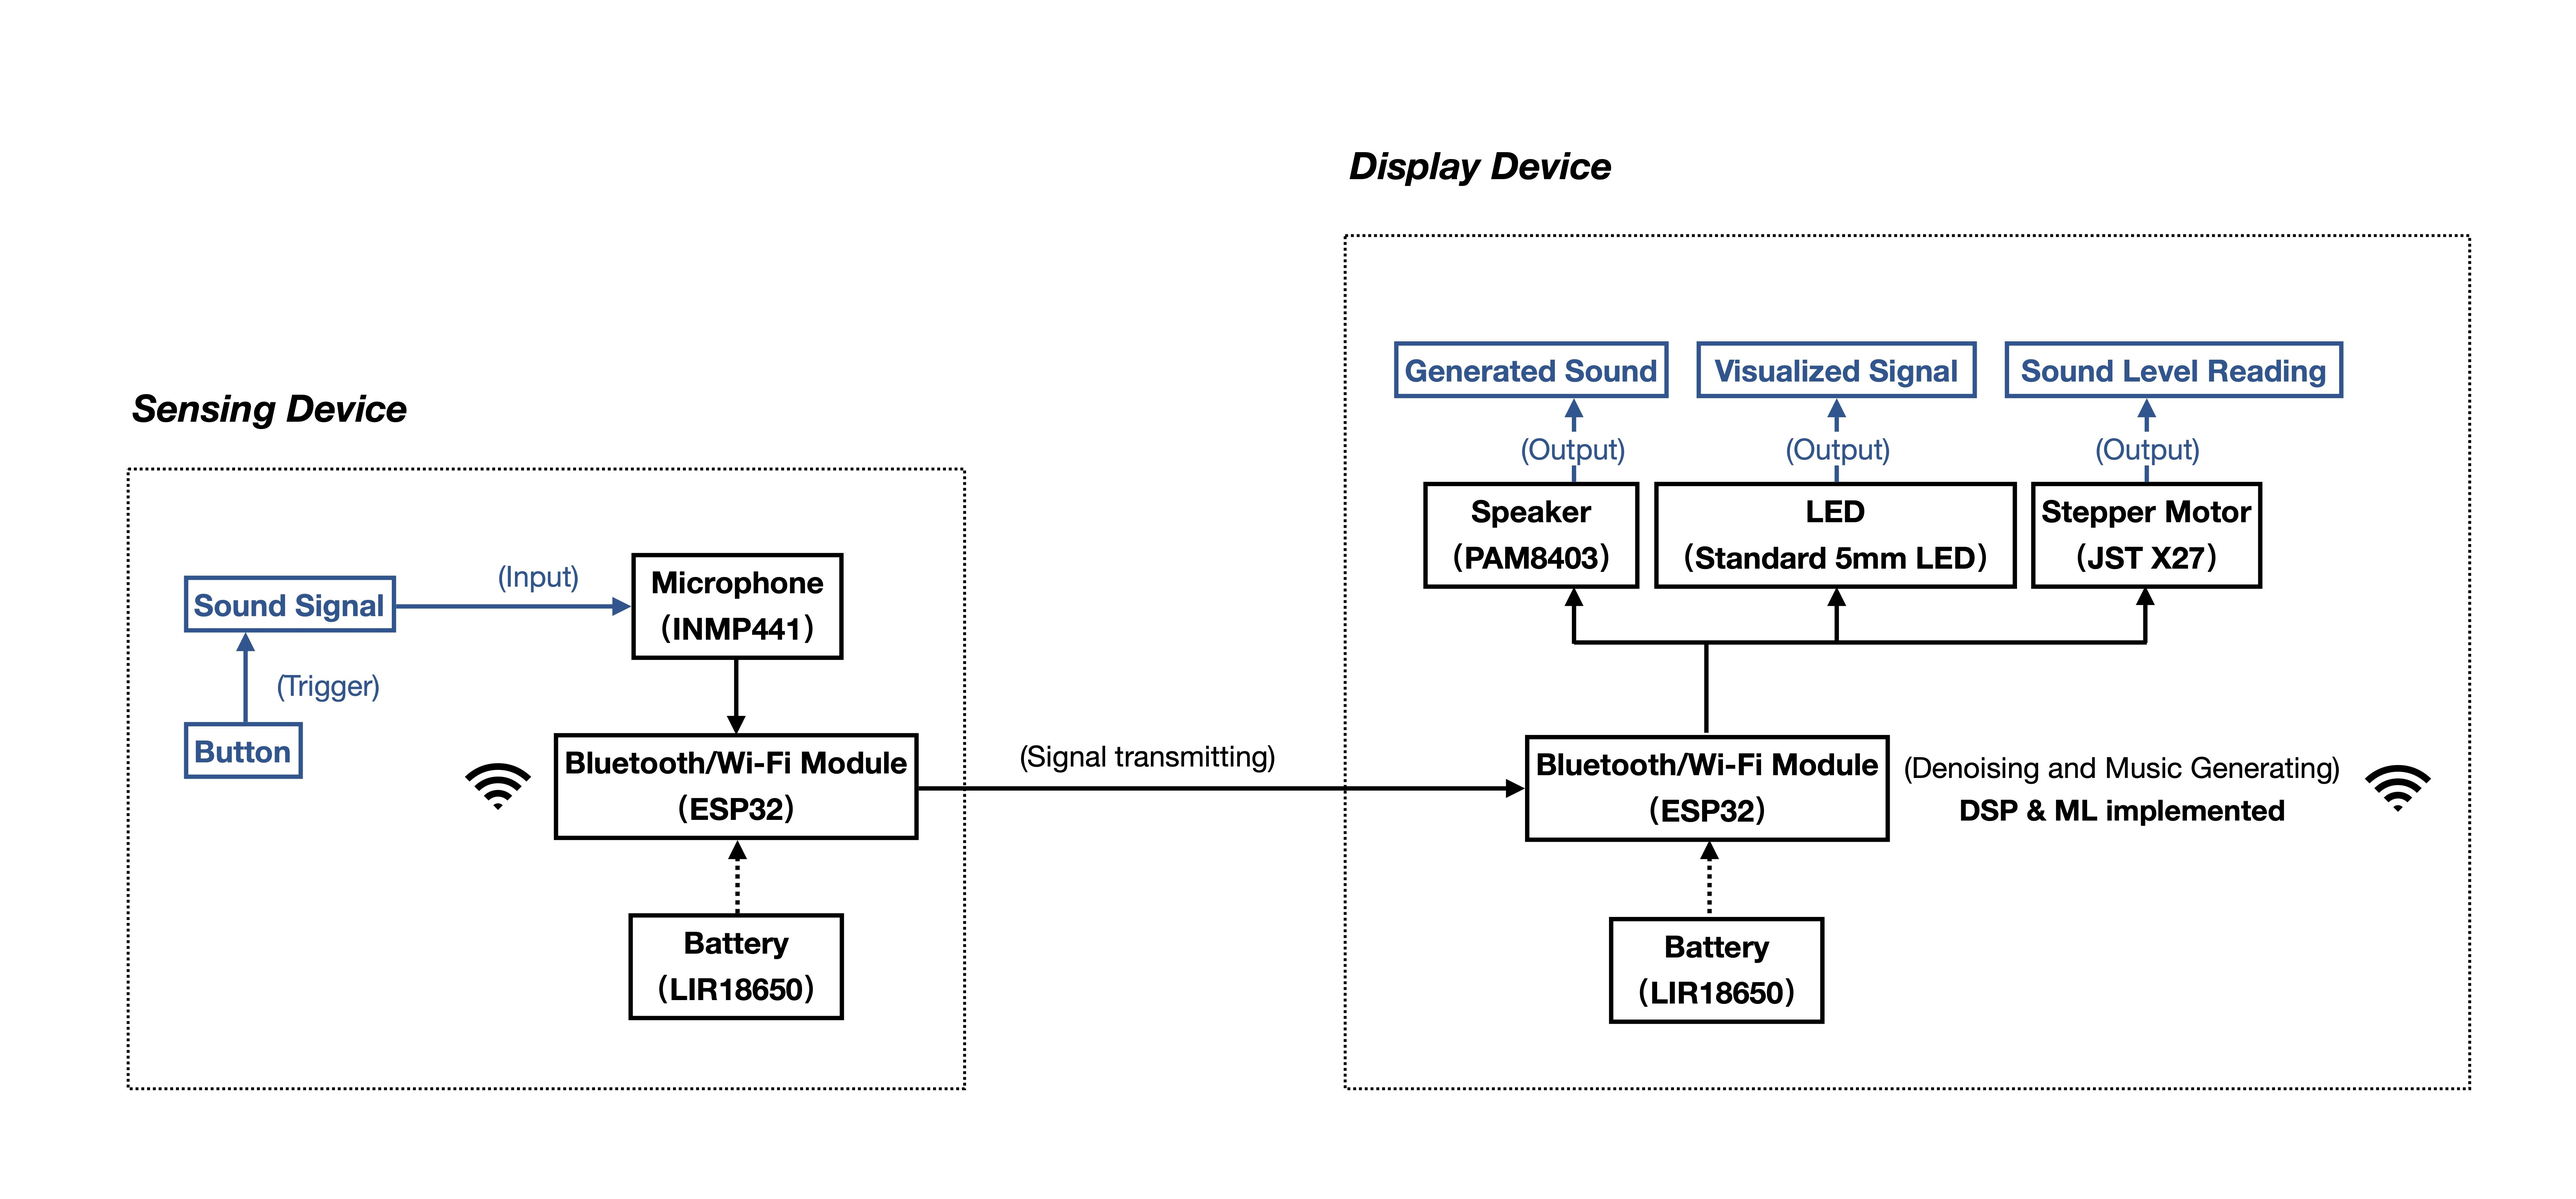
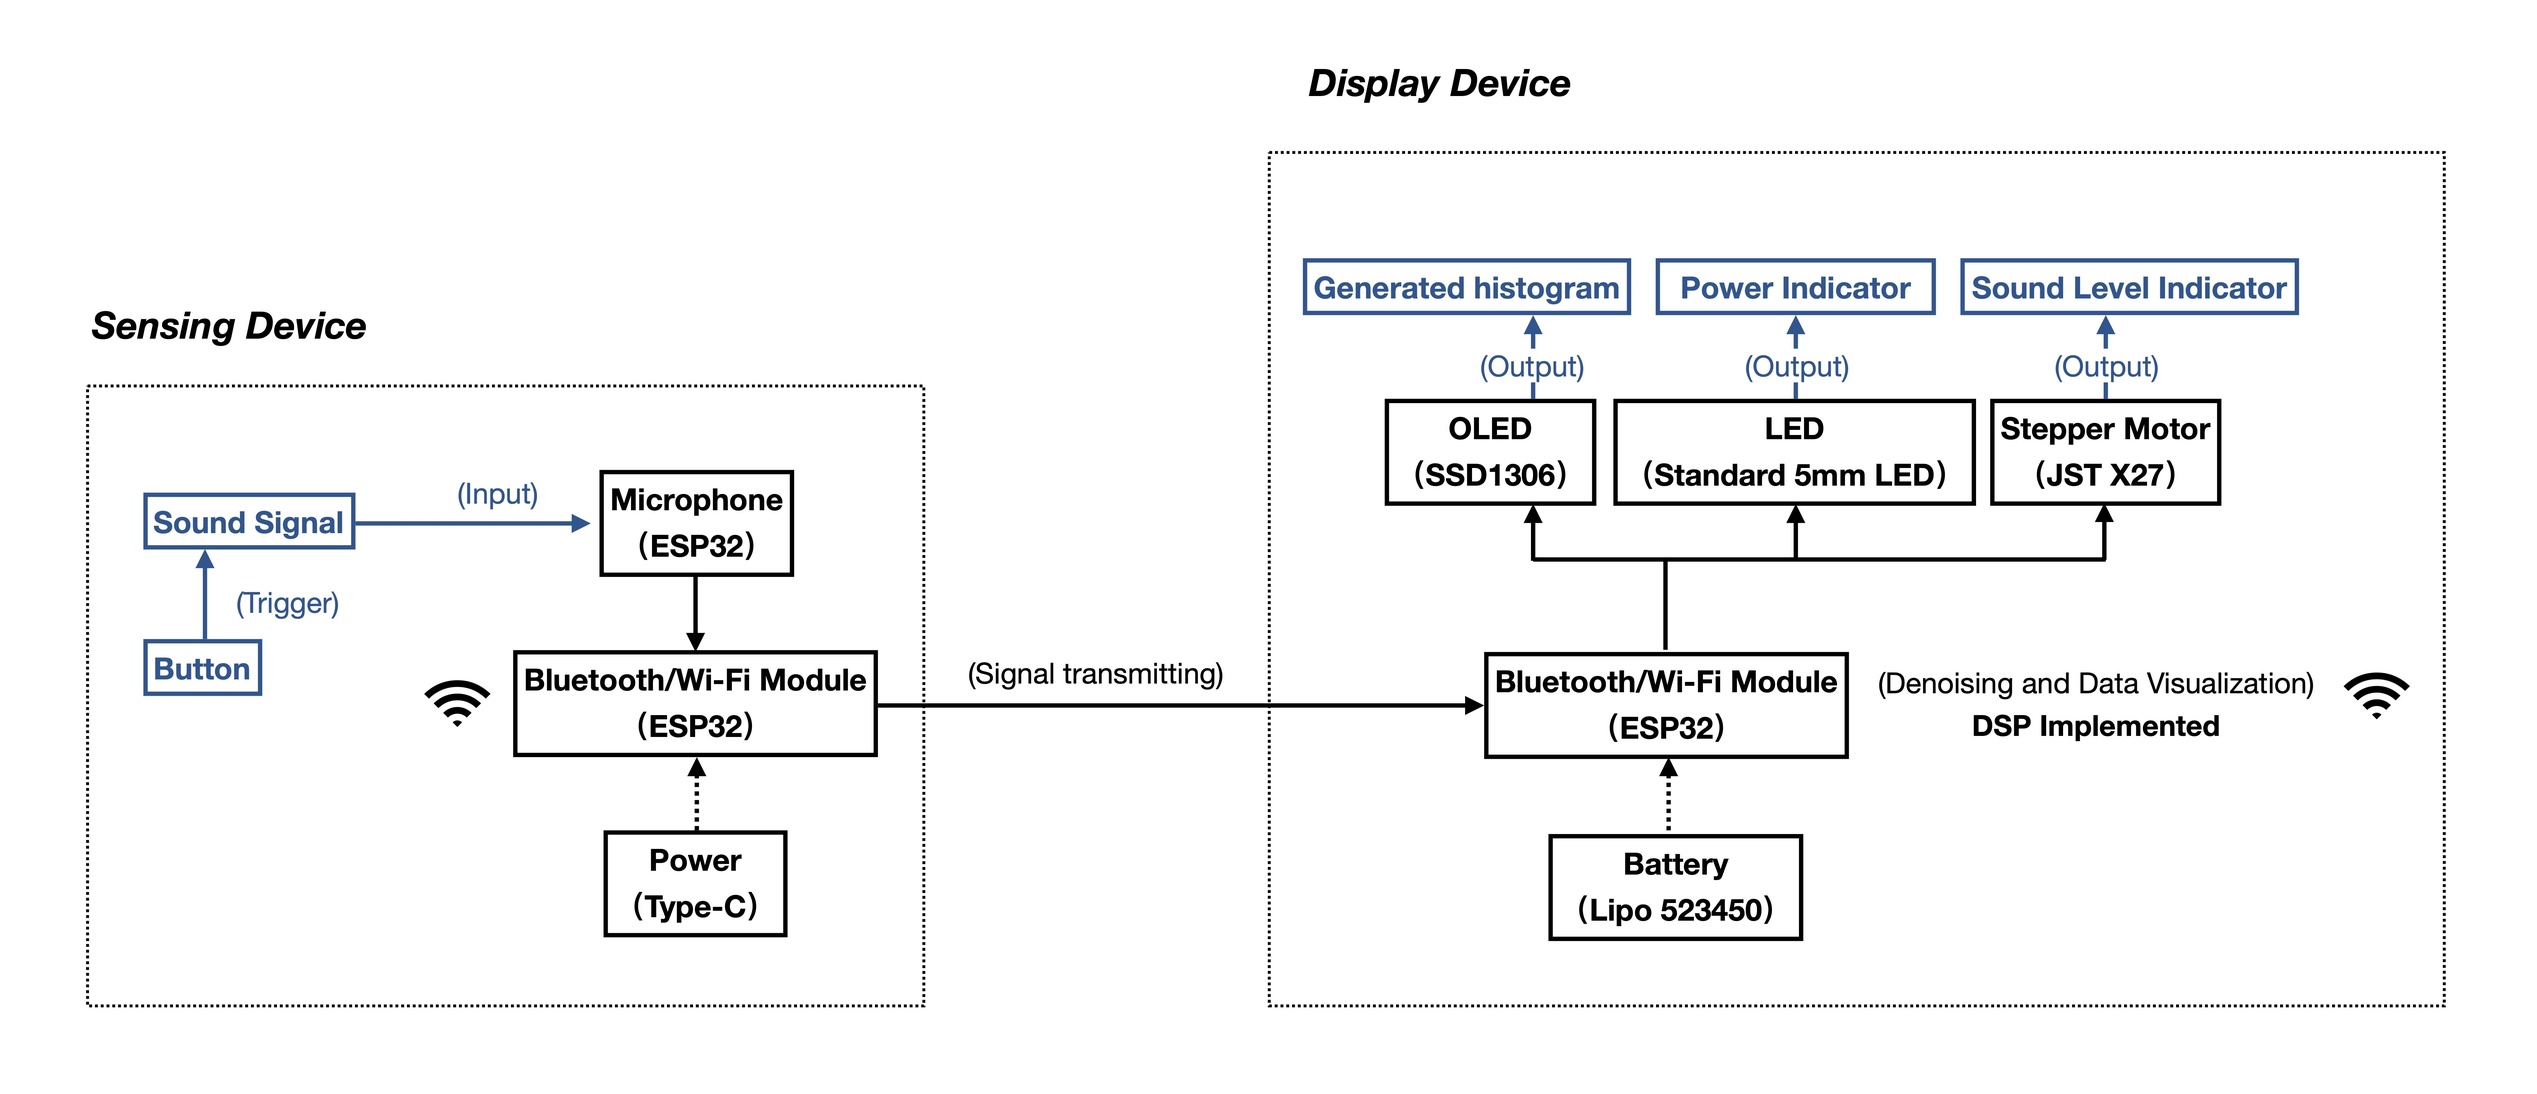
“Updated”

diff --git a/README.md b/README.md
@@ -6,38 +6,34 @@ For a detailed view of the power consumption calculations and system profiles, y
 [View the Power Consumption Spreadsheet](https://docs.google.com/spreadsheets/d/1GH_dmqcpy9LyMxHUE3kLtBWBAWlxp0ul/edit?usp=sharing&ouid=112464995598441446363&rtpof=true&sd=true)
 This spreadsheet includes all the power metrics used in the project and the estimated days of use for each component.
 
-### Separate Environmental Noise Detection + Interactive Environmental Music Creation Device
+### Sensing the Unseen: A Symphony in Silence
 
-Sensing Device: Captures and appropriately filters the ambient noise in the environment, and transmits it to the Display Device. This device can be placed freely in various spaces to trigger the generation of different music by the Display Device.
-
-Display Device: Based on the noise patterns in the environment, generates a short piece of music using a specified algorithm and outputs it.
-
-### Display Device: Illuminator of the Unseen Resonance
-
-- **Primary Design**: Wearable device
-- **Iterated Design**: Portable device
+In the vast tapestry of everyday life, sounds weave invisible threads, creating a symphony often unheard and unseen. "Echoes of Space" is an odyssey into making the imperceptible palpable, visualizing the whispers and roars of our environment, and transforming them into a visual serenade.
 
 ### Sensing Device: Whisperer of the Unheard Symphony
 
-- **Function**: Captures and filters ambient noise, transmits to Display Device. Can be placed in various spaces.
+The Sensing Device is engineered to capture ambient noise with precision and transmit this data for further processing. It serves as the primary data collection unit in diverse settings.
+
+### Display Device: Illuminator of the Unseen Resonance
+
+The Display Device is tasked with receiving acoustic data and rendering it into a visual format. It utilizes a range of components to articulate the nuances of environmental sound.
+
 
 ### Components
 
 - **Sensing Device**
 ![Sensing Device](images/sensing.jpg)
-  - Microphone: INMP441
-  - Bluetooth/Wi-Fi Module: ESP32
-  - Battery: 18650 lithium battery LIR18650
+  - Microcontroller: Seeed Xiao ESP32S3
+  - Interface: Adafruit Tactile Switch Buttons (12mm Square, 6mm Tall)
+
 
 - **Display Device**
 ![Display Device](images/display.jpg)
-  - MCU: ESP32
-  - Bluetooth/Wi-Fi Module: ESP32
-  - Battery: 18650 lithium battery LIR18650
-  - Speaker: PAM8403
-  - LED: Standard 5mm LEDs or 5050 SMD LEDs.
-  - Stepper Motor: JST X27
-  - Button: KSMC6 Tactile Switches 6mm Top Push
+  - Microcontroller: Seeed Xiao ESP32S3
+  - Display: OLED SSD1306
+  - User Interface: Adafruit SPDT Slide Switch
+  - Output Actuator: Stepper Motor (JST X27.168)
+  - Power Source: 3.7V Lipo Battery 1000mAh
 
 ### System Architecture Diagram
 ![System Architecture](images/diagram.jpg)
